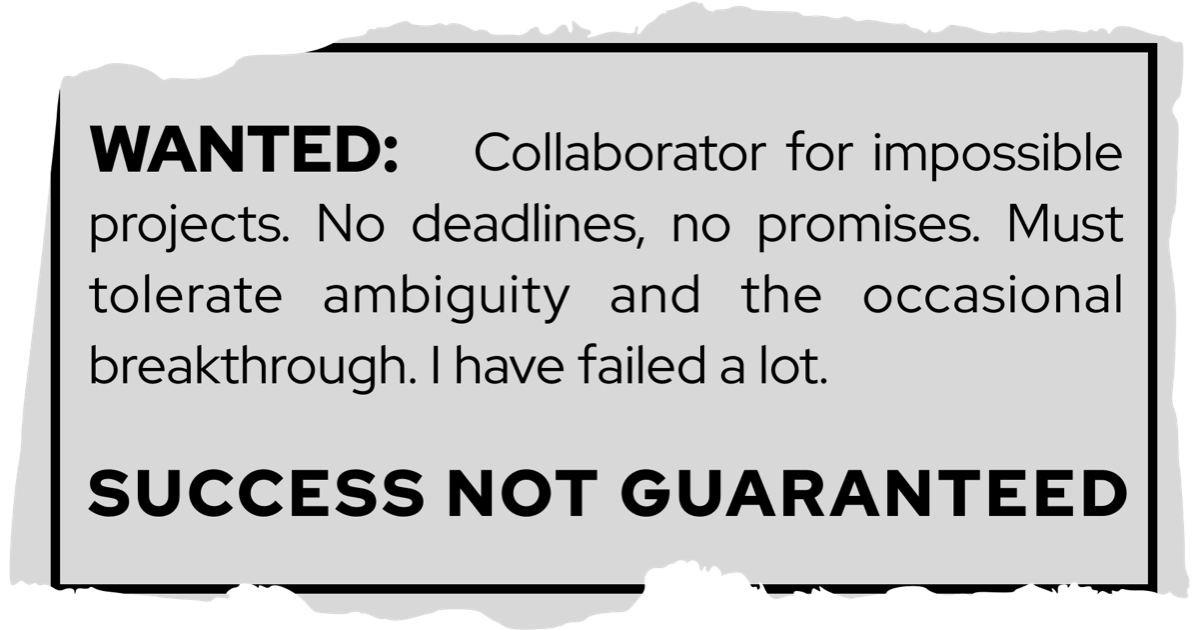
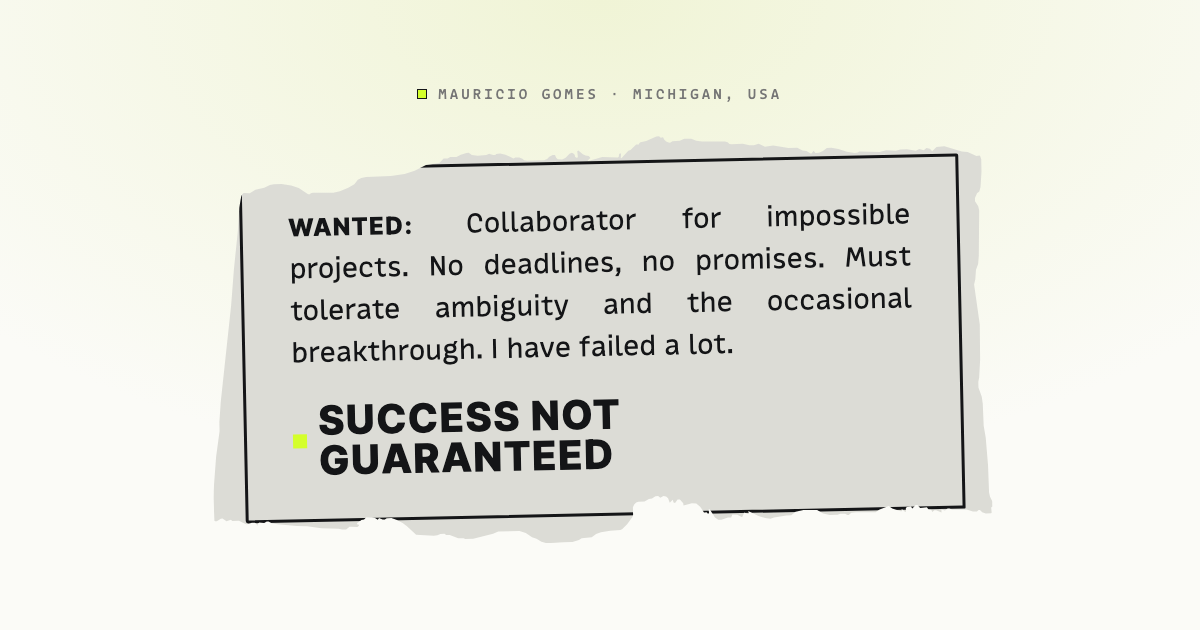
Render OpenGraph cards from the site itself
Every page shared one card, the old Montserrat tear-out from before the
redesign. `just og` now builds the site with an extra output format that
renders the home page and every post as a 1200x630 card page in the real CSS
and fonts, then screenshots each with headless Chrome. A post's card sets
its title inside the tear-out over its own walk art; pages without a card of
their own fall back to the site card. The favicon PNGs come from the same
run.

Claude-Session: https://claude.ai/code/session_014E6CRW5cqeYn16gnGXgM3R

diff --git a/assets/css/og.css b/assets/css/og.css
@@ -1,0 +1,95 @@
+/* OPENGRAPH CARDS. Loaded after the site bundle on the card pages that
+   `just og` renders (see tools/ogcard), so the tokens, fonts, meta line and
+   tear-out rules all carry over. This only pins the 1200x630 stage and sizes
+   the type for it. */
+html,
+body {
+  width: 1200px;
+  height: 630px;
+  min-height: 0;
+  margin: 0;
+  padding: 0;
+  overflow: hidden;
+}
+
+body {display: block;}
+
+.og-stage {
+  position: relative;
+  width: 1200px;
+  height: 630px;
+  display: flex;
+  flex-direction: column;
+  align-items: center;
+  justify-content: center;
+}
+
+.og-stage .meta {
+  justify-content: center;
+  margin: 0 0 36px;
+  font-size: 14px;
+}
+
+/* The tear-out at card scale: wider and larger, same proportions. A fixed
+   width, so a short title gets the same scrap as a long one. */
+.og-stage .tearout {
+  width: 940px;
+  margin: 0;
+  padding: 24px 28px 26px 32px;
+}
+
+.og-stage .tearout-ad {padding: 36px 46px 38px;}
+
+.og-stage .tearout-copy p {font-size: 27px;}
+
+.og-stage .tearout-copy strong {font-size: 24px;}
+
+.og-stage .tearout-title {
+  margin-top: 28px;
+  font-size: 40px;
+}
+
+.og-stage .tearout-title .marker {
+  width: 14px;
+  height: 14px;
+}
+
+/* POST CARDS. The walk art sits behind the scrap as the page it came from,
+   faded so the ad stays the subject. */
+.og-walk {
+  position: absolute;
+  left: 0;
+  top: 50%;
+  width: 1200px;
+  transform: translateY(-50%);
+  opacity: 0.45;
+}
+
+.og-post .tearout-ad .meta {
+  justify-content: flex-start;
+  margin: 0 0 22px;
+  color: var(--fg-quiet);
+}
+
+.og-title {
+  margin: 0;
+  font-size: 64px;
+  font-weight: 800;
+  line-height: 1.02;
+  letter-spacing: -0.035em;
+  color: var(--fg);
+  text-wrap: balance;
+}
+
+.og-title-long {font-size: 54px;}
+
+.og-post .tearout-title {
+  margin-top: 34px;
+  font-size: 19px;
+  letter-spacing: 0.12em;
+}
+
+.og-post .tearout-title .marker {
+  width: 9px;
+  height: 9px;
+}

diff --git a/layouts/_partials/head.html b/layouts/_partials/head.html
@@ -5,9 +5,16 @@
     {{- $desc := .Description | default site.Params.description }}
     {{- $ogTitle := site.Title }}
     {{- if not .IsHome }}{{ with .Title }}{{ $ogTitle = printf "%s - %s" . site.Title }}{{ end }}{{ end }}
+    {{- /* Posts get their own card from `just og` when one has been rendered;
+         everything else shares the site card. */}}
+    {{- $card := "og-card.png" }}
+    {{- if eq .Section "posts" }}{{ with .File }}
+    {{- $own := printf "og/%s.png" .ContentBaseName }}
+    {{- if fileExists (printf "static/%s" $own) }}{{ $card = $own }}{{ end }}
+    {{- end }}{{ end }}
     <meta name="description" content="{{ $desc }}">
     <meta name="twitter:card" content="summary_large_image">
-    <meta name="twitter:image" content="{{ "og-card.png" | absURL }}">
+    <meta name="twitter:image" content="{{ $card | absURL }}">
     <meta name="twitter:title" content="{{ $ogTitle }}">
     <meta name="twitter:description" content="{{ $desc }}">
 
@@ -21,7 +28,9 @@
     {{- end }}
     <meta property="og:title" content="{{ $ogTitle }}">
     <meta property="og:description" content="{{ $desc }}">
-    <meta property="og:image" content="{{ "og-card.png" | absURL }}">
+    <meta property="og:image" content="{{ $card | absURL }}">
+    <meta property="og:image:width" content="1200">
+    <meta property="og:image:height" content="630">
 
     {{/* The Latin-basic subsets justif blocks on. Preloading them shortens the
          window where the prose is hidden waiting for document.fonts.ready.

diff --git a/layouts/posts/page.og.html b/layouts/posts/page.og.html
@@ -1,0 +1,27 @@
+{{- /* A post's OpenGraph card: its meta line, title and the site name set
+     inside the tear-out, over the post's drunkard's-walk art as the page the
+     ad was torn from. `just og` renders it into static/og/<slug>.png. */ -}}
+<!DOCTYPE html>
+<html lang="en">
+<head>
+  <meta charset="utf-8">
+  <title>{{ .Title }}</title>
+  {{ partial "og-css.html" . }}
+</head>
+<body class="og">
+  <main class="og-stage og-post">
+    {{- $slug := .File.ContentBaseName }}
+    {{- if fileExists (printf "static/_Images/walks/%s-light.png" $slug) }}
+    <img class="og-walk" src="/_Images/walks/{{ $slug }}-light.png" alt="">
+    {{- end }}
+    {{ partial "tearout-clip.html" . }}
+    <div class="tearout">
+      <div class="tearout-ad">
+        <p class="meta"><span class="marker"></span>{{ site.Params.author }} · {{ .Date.Format "2006-01-02" }}{{ with .Params.tags }} · {{ index . 0 }}{{ end }}</p>
+        <h1 class="og-title{{ if gt (len .Title) 40 }} og-title-long{{ end }}">{{ .Title }}</h1>
+        <p class="tearout-title"><span class="marker"></span>{{ site.Title }}</p>
+      </div>
+    </div>
+  </main>
+</body>
+</html>

diff --git a/layouts/_partials/og-css.html b/layouts/_partials/og-css.html
@@ -1,0 +1,13 @@
+{{- /* Stylesheets for the OpenGraph card pages. The site's main.css comes
+     through with its dark-scheme block removed, so a card renders on paper
+     whatever scheme the rendering machine runs; headless Chrome follows the
+     OS and offers no switch for it. The tokens stay single-sourced in
+     main.css. Then og.css pins the 1200x630 stage. Chroma is left out; the
+     cards have no code. */ -}}
+{{- $main := (resources.Get "css/main.css").Content }}
+{{- $light := replaceRE `(?s)\n@media \(prefers-color-scheme: dark\) \{.*?\n\}\n` "\n" $main }}
+{{- if in $light "prefers-color-scheme" }}
+  {{- errorf "og-css.html: could not strip the dark block from main.css; its shape changed" }}
+{{- end }}
+{{- $css := slice (resources.FromString "css/og-main.css" $light) (resources.Get "css/og.css") | resources.Concat "css/og-bundle.css" | minify }}
+<link rel="stylesheet" href="{{ $css.RelPermalink }}">

diff --git a/layouts/home.og.html b/layouts/home.og.html
@@ -1,0 +1,17 @@
+{{- /* The site's OpenGraph card: the home hero on a 1200x630 stage. Only the
+     `just og` build produces this page (tools/ogcard/og.toml enables the
+     output format), and render.py screenshots it into static/og-card.png. */ -}}
+<!DOCTYPE html>
+<html lang="en">
+<head>
+  <meta charset="utf-8">
+  <title>{{ site.Title }}</title>
+  {{ partial "og-css.html" . }}
+</head>
+<body class="og">
+  <main class="og-stage">
+    <p class="meta"><span class="marker"></span>{{ site.Params.author }} · {{ .Params.tagline }}</p>
+    {{ partial "tearout.html" . }}
+  </main>
+</body>
+</html>

diff --git a/tools/ogcard/render.py b/tools/ogcard/render.py
@@ -1,0 +1,117 @@
+#!/usr/bin/env python3
+"""Render the OpenGraph cards and the favicon PNGs with headless Chrome.
+
+`just og` runs this. It builds the site once more with og.toml merged in,
+which adds an "og" output format so the home page and every post also render
+as a 1200x630 card page, serves that build on a local port, and screenshots
+each card into static/ (the home card is og-card.png, posts go under og/).
+The favicon PNGs come from static/favicon.svg the same way.
+
+Drafts and future-dated posts are included so a card is ready by the time a
+post publishes. Only the standard library and Google Chrome are needed.
+"""
+
+import concurrent.futures
+import functools
+import http.server
+import json
+import pathlib
+import subprocess
+import sys
+import tempfile
+import threading
+
+ROOT = pathlib.Path(__file__).resolve().parents[2]
+CHROME = pathlib.Path("/Applications/Google Chrome.app/Contents/MacOS/Google Chrome")
+STATIC = ROOT / "static"
+CARD = (1200, 630)
+WORKERS = 4
+
+# Two icon pages: the touch icon fills its square with the ground color (iOS
+# rounds the corners itself), the favicon keeps the SVG's corners over
+# transparency. The ground color repeats favicon.svg's on purpose; it is the
+# only place outside that file that knows it.
+ICONS = {
+    "apple-touch-icon.png": (180, False, '<body style="margin:0;background:#141517">'
+                             '<img src="/favicon.svg" style="display:block;width:180px;height:180px"></body>'),
+    "favicon.png": (64, True, '<body style="margin:0"><img src="/favicon.svg" style="display:block;width:64px;height:64px"></body>'),
+}
+
+
+class Quiet(http.server.SimpleHTTPRequestHandler):
+    def log_message(self, *args):
+        pass
+
+
+def build(dest):
+    subprocess.run(
+        ["hugo", "--quiet", "-D", "-F", "--config", "hugo.toml,tools/ogcard/og.toml", "--destination", str(dest)],
+        cwd=ROOT, check=True,
+    )
+
+
+def serve(root):
+    server = http.server.ThreadingHTTPServer(("127.0.0.1", 0), functools.partial(Quiet, directory=str(root)))
+    threading.Thread(target=server.serve_forever, daemon=True).start()
+    return server
+
+
+def shoot(url, out, size, profile, transparent=False):
+    """Screenshot url into out. Chrome on macOS writes the file and then
+    lingers, so the process is killed as soon as it reports the write."""
+    out.parent.mkdir(parents=True, exist_ok=True)
+    args = [
+        str(CHROME), "--headless", "--disable-gpu", "--hide-scrollbars",
+        "--no-first-run", "--no-default-browser-check", "--force-light-mode",
+        f"--user-data-dir={profile}", f"--window-size={size},{size if isinstance(size, int) else size}",
+    ]
+    w, h = (size, size) if isinstance(size, int) else size
+    args[-1] = f"--window-size={w},{h}"
+    if transparent:
+        args.append("--default-background-color=00000000")
+    args += ["--virtual-time-budget=5000", f"--screenshot={out}", url]
+    proc = subprocess.Popen(args, stdout=subprocess.DEVNULL, stderr=subprocess.PIPE, text=True)
+    watchdog = threading.Timer(90, proc.kill)
+    watchdog.start()
+    written = False
+    try:
+        for line in proc.stderr:
+            if "written to file" in line:
+                written = True
+                break
+    finally:
+        watchdog.cancel()
+        proc.kill()
+        proc.wait()
+    if not written:
+        raise RuntimeError(f"Chrome did not render {url}")
+
+
+def main():
+    if not CHROME.exists():
+        sys.exit(f"Google Chrome not found at {CHROME}")
+    with tempfile.TemporaryDirectory(prefix="ogcard-") as tmp:
+        tmp = pathlib.Path(tmp)
+        dest = tmp / "site"
+        build(dest)
+        for name, (_, _, body) in ICONS.items():
+            (dest / f"icon-{name}.html").write_text(f"<!DOCTYPE html><html><head><meta charset=utf-8></head>{body}</html>")
+        server = serve(dest)
+        base = f"http://127.0.0.1:{server.server_address[1]}"
+        cards = json.loads((dest / "og-manifest.json").read_text())
+
+        jobs = [(base + c["url"], STATIC / f"{c['name']}.png", CARD, False) for c in cards]
+        jobs += [(f"{base}/icon-{name}.html", STATIC / name, px, alpha) for name, (px, alpha, _) in ICONS.items()]
+        with concurrent.futures.ThreadPoolExecutor(WORKERS) as pool:
+            futures = {
+                pool.submit(shoot, url, out, size, tmp / f"profile-{i}", alpha): out
+                for i, (url, out, size, alpha) in enumerate(jobs)
+            }
+            for future in concurrent.futures.as_completed(futures):
+                future.result()
+                print(futures[future].relative_to(ROOT))
+        server.shutdown()
+
+
+if __name__ == "__main__":
+    main()

diff --git a/.claude/CLAUDE.md b/.claude/CLAUDE.md
@@ -9,9 +9,9 @@ It used to run on Blot. Nothing about that setup applies any more. If you find a
 - `content/posts/` — published posts, one markdown file each, YAML frontmatter
 - `content/about.md`, `content/now.md`, `content/subscribe.md` — standalone pages
 - `content/_index.md` — home hero copy: the `tagline` param and the wanted-ad body (the `**WANTED:**` label is part of the markdown)
-- `layouts/` — flat Hugo layout names (`home.html`, `page.html`, `section.html`, `term.html`); partials in `layouts/_partials/` (`tearout.html` is the home hero, `tearout-clip.html` its torn-paper clip path); `layouts/_shortcodes/youtube.html` overrides Hugo's built-in so embeds sit in the framed `.embed` box
+- `layouts/` — flat Hugo layout names (`home.html`, `page.html`, `section.html`, `term.html`); partials in `layouts/_partials/` (`tearout.html` is the home hero, `tearout-clip.html` its torn-paper clip path); `layouts/_shortcodes/youtube.html` overrides Hugo's built-in so embeds sit in the framed `.embed` box. `home.og.html`, `posts/page.og.html` and `home.ogmanifest.json` only exist for the `just og` build (see OpenGraph cards below)
 - `assets/css/` — `main.css` is the entire design; `chroma.css` / `chroma-dark.css` are generated
-- `static/` — fonts (MonoLisa and Inter Tight, self-hosted), KaTeX, the vendored justif bundle, `avatar-portrait.png` for the masthead, images under `_Images/`
+- `static/` — fonts (MonoLisa and Inter Tight, self-hosted), KaTeX, the vendored justif bundle, `avatar-portrait.png` for the masthead, `favicon.svg` and its PNG renders, the OpenGraph cards (`og-card.png`, `og/<slug>.png`), images under `_Images/`
 
 Drafts are `draft: true` in frontmatter, not a separate directory. `just serve` shows them.
 
@@ -27,6 +27,7 @@ Posts with non-ASCII titles keep an ASCII filename and override the path with `u
 | `just chroma` | regenerate both syntax-highlighting stylesheets |
 | `just tear` | retrace the hero's torn-paper clip path from `tools/tearout/success_not_guaranteed.png` |
 | `just walks` | regenerate per-post drunkard's-walk art (run after adding a post) |
+| `just og` | regenerate the OpenGraph cards and favicon PNGs (run after adding a post, after `just walks`) |
 
 ## Deploy
 
@@ -69,6 +70,14 @@ The home hero is a wanted ad torn out of a newspaper (`layouts/_partials/tearout
 - `body` is a flex column so the footer pins to the bottom of short pages. `.main` is the 680px reading column; the home page adds `.main-wide` for 900px.
 - The halo is a `radial-gradient` on `body`, sized in px vertically on purpose. A percentage would scale with document height, so a long post would get a glow reaching halfway down the page.
 - Breakpoints: 900px tightens the post-list date column, 720px is the phone layout (title above date and tag in each row, wrapped nav, the hero meta line in block flow so its marker square stops wrapping onto a line of its own).
+
+### OpenGraph cards and favicon are generated
+
+`just og` runs `tools/ogcard/render.py`: it builds the site again with `tools/ogcard/og.toml` merged in, which adds an `og` output format so the home page and every post also render as a 1200x630 card page, serves that build locally, and screenshots each card with headless Google Chrome into `static/og-card.png` (site) and `static/og/<slug>.png` (posts). The PNGs are committed. `head.html` uses a post's own card when its file exists and falls back to the site card. Run it after adding a post, once `just walks` has made the post's walk art, since the post card shows that art behind the tear-out.
+
+The card pages load `assets/css/og.css` after a copy of `main.css` with its dark block stripped (`_partials/og-css.html`), because headless Chrome follows the Mac's color scheme and has no switch for it; the build fails loudly if that block's shape changes. Chrome writes the screenshot and then lingers, so the script kills it once the file lands.
+
+The favicon is `static/favicon.svg` (the lime marker square on an ink ground). `just og` also renders `favicon.png` and `apple-touch-icon.png` from it.
 
 ### Syntax highlighting is generated
 
